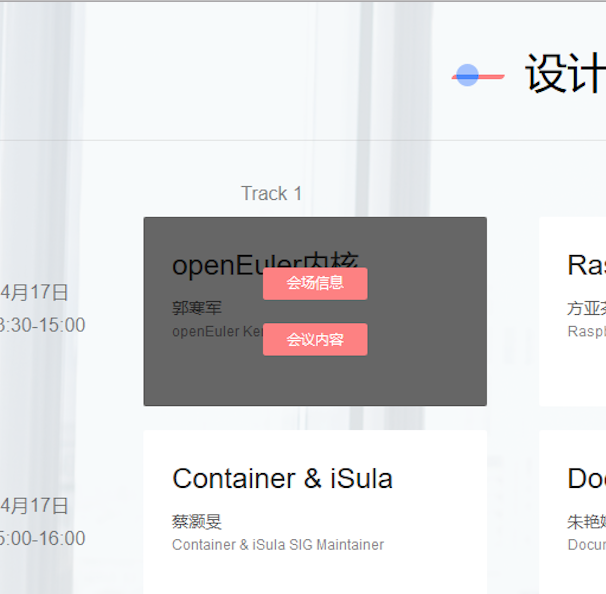
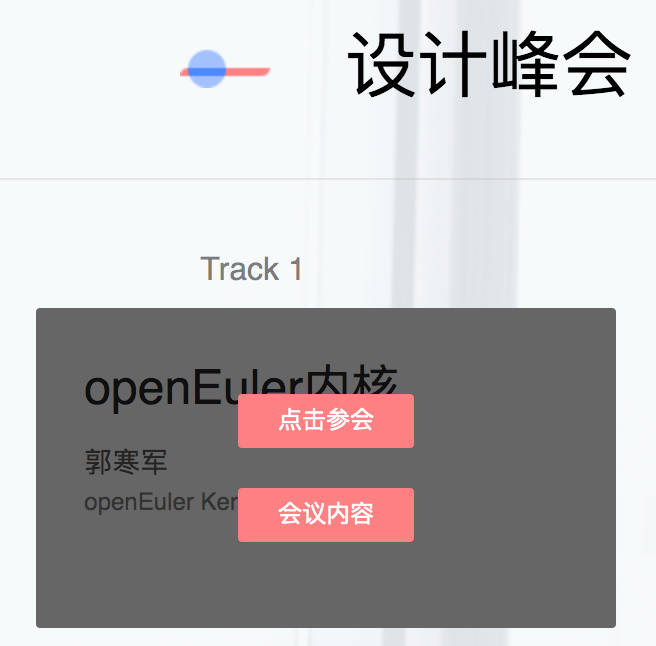
update <img>

diff --git a/content/en/summitfaq/docsfaq/answer3.md b/content/en/summitfaq/docsfaq/answer3.md
@@ -1,17 +1,17 @@
 ## How to Get Involved in Design Summit Track's Sessions?
-In the Design Summit section, moving the mouse over the topic will bring up the venue information and meeting content buttons. Click the button "Click to join" to open the meeting link automatically in the default browser, please follow the instructions to download and install the [Zoom](https://zoom.us/download) client and access the meeting; or download the client in advance from the download page Zoom, the browser will automatically open the Zoom client to access the meeting.
+In the Design Summit section, moving the mouse over the topic will bring up the venue information and meeting content buttons. Click the button "Click to join" to open the meeting link automatically in the default browser, please follow the instructions to download and install the Zoom client and access the meeting; or download the client in advance from the download page [Zoom](https://zoom.us/download), the browser will automatically open the Zoom client to access the meeting.
 
-![图示](/en/summitfaq/docsfaq/2.jpg)
+<img src="/en/summitfaq/docsfaq/2.jpg">
 
 Clicking on the "Etherpad" button will open a new page in the browser and bring you to the content page of the corresponding Session.
 
 If you have information about the content of this Session on the page, please enter your ID in the top right corner where the "Enter your name" input box appears, and you can also participate in editing the content of this page.
 
 
-![图示](/en/summitfaq/docsfaq/3.jpg)	
+<img src="/en/summitfaq/docsfaq/3.jpg">		
 
 
 If you plan to attend, you can edit "Attendees" to add your name and company; if you have something you'd like to discuss, you can also add it to the discussion list and the moderator will schedule a time for you to speak.
 
 
-![图示](/en/summitfaq/docsfaq/4.jpg)
+<img src="/en/summitfaq/docsfaq/4.jpg">

diff --git a/content/zh/summitfaq/docsfaq/answer3.md b/content/zh/summitfaq/docsfaq/answer3.md
@@ -1,14 +1,14 @@
 ## 如何参与设计峰会 Track 的会议?
-在设计峰会部分，用鼠标移动到议题上会出现会场信息和会议内容两个按钮。点击按钮 “点击参会” 会在系统默认的浏览器自动打开会议链接，请根据打开页面的提示下载安装 zoom 客户端并接入会议；或者提前在下载  [Zoom](https://zoom.us/download) 页面下载客户端，浏览器会自动打开 Zoom 的客户端接入会议。
+在设计峰会部分，用鼠标移动到议题上会出现点击参会和会议内容两个按钮。点击按钮 “点击参会” 会在系统默认的浏览器自动打开会议链接，请根据打开页面的提示下载安装 Zoom 客户端并接入会议；或者提前在下载  [Zoom](https://zoom.us/download) 页面下载客户端，浏览器会自动打开 Zoom 的客户端接入会议。
 
-![图示](/zh/summitfaq/docsfaq/2.jpg)
+<img src="/zh/summitfaq/docsfaq/2.jpg">
 
 点击 "会议内容" 按钮浏览器会打开新的页面，调到相应 Session 的内容页面。
 
 在页面中有本 Session 内容相关的信息，请在右上角的显示 "Enter your name" 输入框的位置输入您的 ID ，然后您也可以参与到编辑本页面的内容。
 
-![图示](/zh/summitfaq/docsfaq/3.jpg)			
+<img src="/zh/summitfaq/docsfaq/3.jpg">		
 
 如果您计划参会，可以编辑 “Attendees” 加入您的名字和公司；如果您有希望讨论的内容也可以加到讨论列表中，主持人会安排时间请您发言。
 
-![图示](/zh/summitfaq/docsfaq/4.jpg)	
+<img src="/zh/summitfaq/docsfaq/4.jpg">

diff --git a/content/en/summitfaq/docsfaq/answer1.md b/content/en/summitfaq/docsfaq/answer1.md
@@ -3,4 +3,4 @@ The openEuler is an open source, free Linux distribution platform that will work
 
  [Euler](https://en.wikipedia.org/wiki/Leonhard_Euler)  is a famous mathematician, and one of his most famous contributions is [Euler's formula](https://en.wikipedia.org/wiki/Euler%27s_formula) which establishes a link between the five numbers 0, 1, Pi, e, i, which is in line with the mission of the operating system, which is to run real-world business in the digital world and be a bridge between the digital world and the real world. openEuler carries the dream of developers to build open source open software systems. 
 
- ![Euler's Formula](/en/summitfaq/docsfaq/1.jpg)
+<img src="/en/summitfaq/docsfaq/1.jpg">
